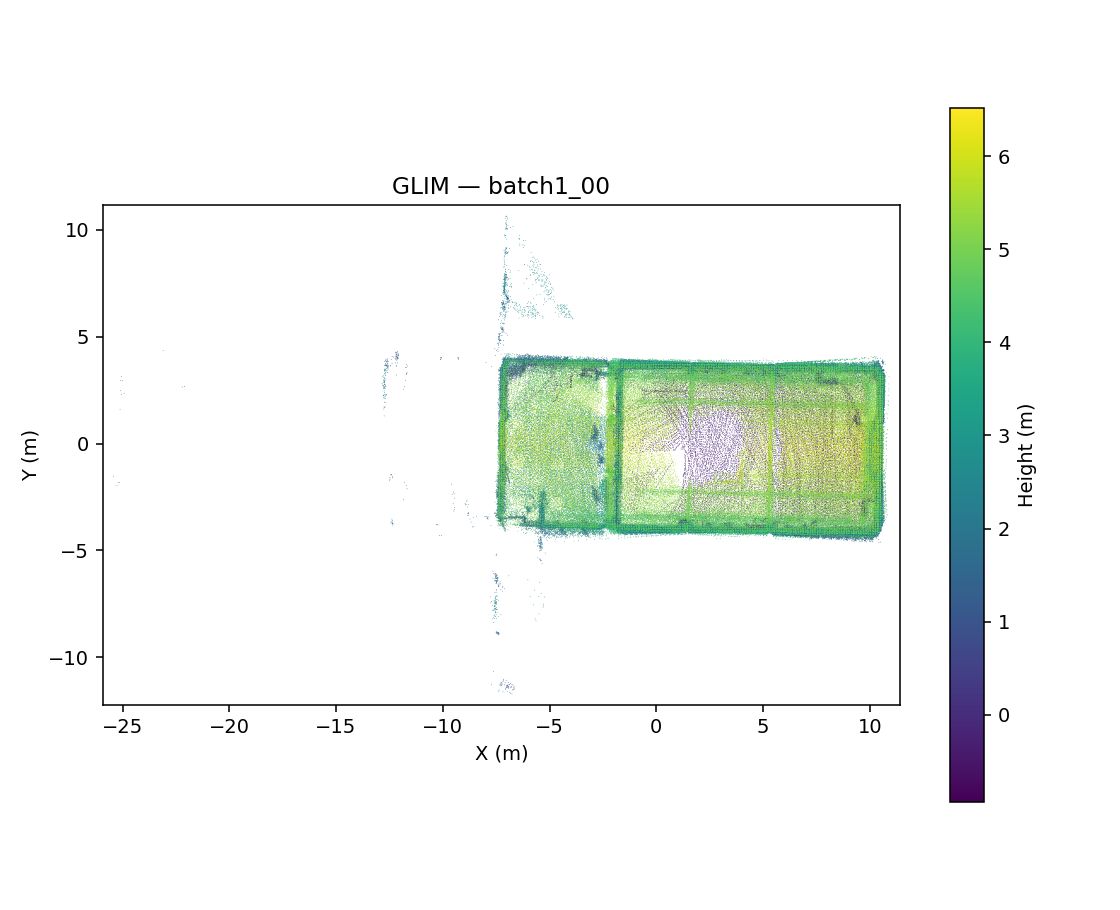
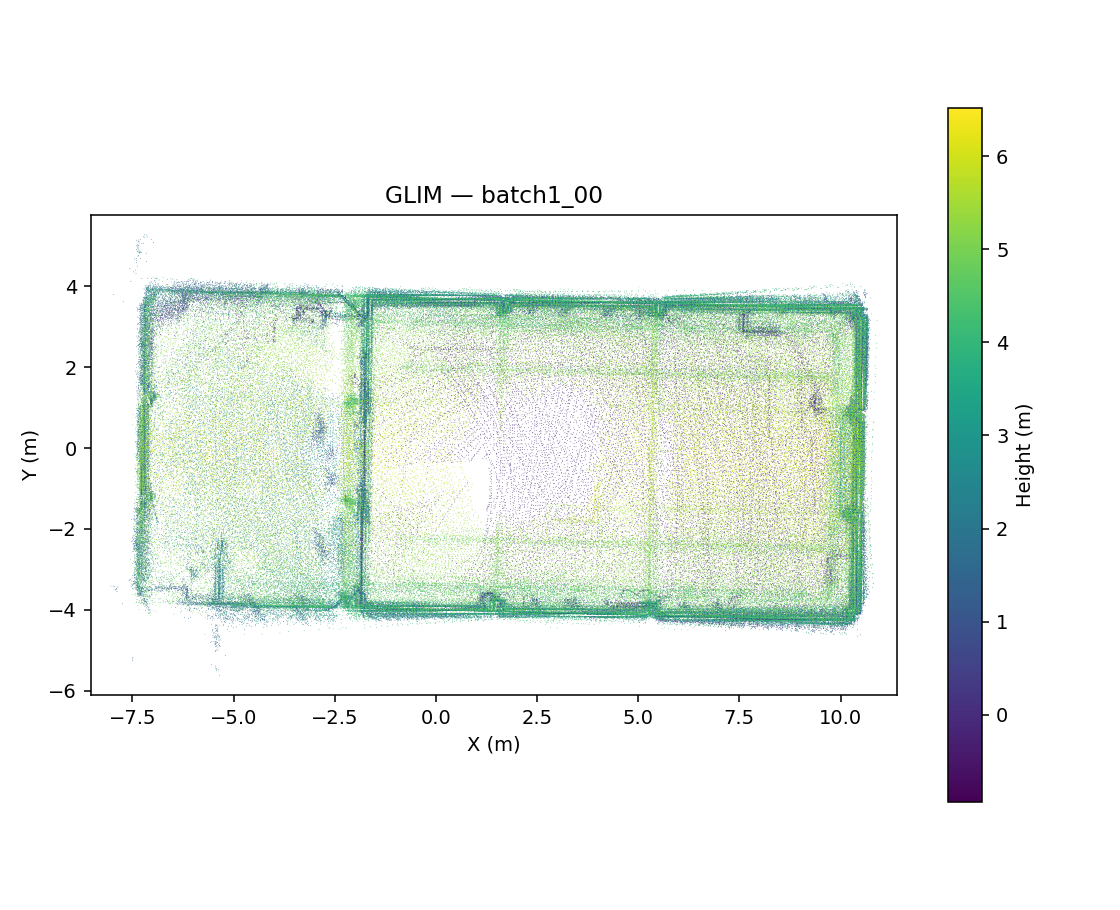
Add per-method APE error maps; fix point-cloud map centering
scripts/render_ape_map.py: renders an evo-style trajectory-colored-by-error
plot using evo's core alignment/APE API directly, bypassing evo's own
plotting module (which crashes via an unconditional mpl_toolkits.mplot3d
import on this system). Matches evo_ape's RMSE exactly.

scripts/render_trajectory_map.py: replaced the ineffective median/MAD
outlier crop with a density-based one (bin into 1m cells, keep the
bounding box of cells above 5% of peak density). The MAD version let a
secondary sparse cluster (likely a window/door reflection) pull the crop
wide, leaving the room compressed into the right half of the plot with
lots of dead space on the left -- the new version correctly bounds to the
room itself.

LIVE_DATASET.md: added the APE error map above each dataset's point-cloud
map row, and updated the point-cloud maps to the properly-centered crop.

diff --git a/scripts/render_ape_map.py b/scripts/render_ape_map.py
@@ -1,0 +1,68 @@
+"""
+Render an evo-style "ape_map" plot (trajectory colored by per-pose APE
+error) using evo's core alignment/metrics API directly, bypassing evo's
+own plotting module -- which unconditionally imports mpl_toolkits.mplot3d
+and crashes on this system (matplotlib/mpl_toolkits version conflict).
+"""
+import argparse
+
+from evo.core import sync, metrics
+from evo.tools import file_interface
+
+
+def main():
+    ap = argparse.ArgumentParser()
+    ap.add_argument("gt_tum")
+    ap.add_argument("est_tum")
+    ap.add_argument("out_png")
+    ap.add_argument("--title", default="")
+    ap.add_argument("--max-diff", type=float, default=0.05)
+    args = ap.parse_args()
+
+    traj_ref = file_interface.read_tum_trajectory_file(args.gt_tum)
+    traj_est = file_interface.read_tum_trajectory_file(args.est_tum)
+
+    traj_ref, traj_est = sync.associate_trajectories(traj_ref, traj_est, max_diff=args.max_diff)
+
+    ape_metric = metrics.APE(metrics.PoseRelation.translation_part)
+    data = (traj_ref, traj_est)
+    ape_metric.process_data(data)
+
+    # process_data internally aligns traj_est to traj_ref (SE3, no scale)
+    # and stores the aligned trajectory back onto traj_est's positions via
+    # metrics.APE -- but to get the aligned positions for plotting we align
+    # explicitly the same way evo's main.py does before calling APE.
+    import copy
+    from evo.core import trajectory
+    traj_est_aligned = copy.deepcopy(traj_est)
+    traj_est_aligned.align(traj_ref, correct_scale=False)
+
+    ape_metric2 = metrics.APE(metrics.PoseRelation.translation_part)
+    ape_metric2.process_data((traj_ref, traj_est_aligned))
+    errors = ape_metric2.error
+    rmse = ape_metric2.get_statistic(metrics.StatisticsType.rmse)
+
+    import matplotlib
+    matplotlib.use('Agg')
+    import matplotlib.pyplot as plt
+
+    ref_xy = traj_ref.positions_xyz[:, :2]
+    est_xy = traj_est_aligned.positions_xyz[:, :2]
+
+    fig, ax = plt.subplots(figsize=(6, 5.5))
+    ax.plot(ref_xy[:, 0], ref_xy[:, 1], '--', color='gray', linewidth=1, label='ground truth', zorder=1)
+    sc = ax.scatter(est_xy[:, 0], est_xy[:, 1], c=errors, cmap='jet', s=6, zorder=2)
+    ax.set_xlabel('X (m)')
+    ax.set_ylabel('Y (m)')
+    ax.set_aspect('equal')
+    ax.legend(loc='best', fontsize=8)
+    title = args.title or f"APE RMSE: {rmse:.3f}m"
+    ax.set_title(title)
+    plt.colorbar(sc, label='APE (m)', shrink=0.85)
+    plt.tight_layout()
+    plt.savefig(args.out_png, dpi=140, facecolor='white')
+    print(f"rmse={rmse:.4f} Saved {args.out_png}")
+
+
+if __name__ == "__main__":
+    main()

diff --git a/scripts/render_trajectory_map.py b/scripts/render_trajectory_map.py
@@ -67,18 +67,24 @@ def read_pointcloud2_xyz(msg, stride=4):
     return pts
 
 
-def robust_crop(pts, k=10.0, pad=1.0):
+def robust_crop(pts, cell=1.0, density_frac=0.05, pad=1.0):
     """Drop sparse far-range outlier points (e.g. reflections through
-    windows/doors) using a median/MAD bound per axis, keeping the dense
-    room-scale cluster centered instead of stretching the plot to include
-    a thin trail of stray points."""
-    keep = np.ones(len(pts), dtype=bool)
-    for axis in (0, 1):
-        vals = pts[:, axis]
-        med = np.median(vals)
-        mad = np.median(np.abs(vals - med)) + 1e-6
-        lo, hi = med - k * mad, med + k * mad
-        keep &= (vals >= lo - pad) & (vals <= hi + pad)
+    windows/doors) using a density-based bounding box: bin points into
+    `cell`-sized 2D cells, keep only cells with at least density_frac of
+    the busiest cell's count, then crop to that region's bounding box.
+    Robust to outlier trails regardless of what fraction of total points
+    they represent (unlike a plain per-axis percentile/MAD cut)."""
+    xy = pts[:, :2]
+    mins = xy.min(axis=0)
+    keys = np.floor((xy - mins) / cell).astype(np.int64)
+    uniq, inv, counts = np.unique(keys, axis=0, return_inverse=True, return_counts=True)
+    threshold = counts.max() * density_frac
+    dense_cells = uniq[counts >= threshold]
+    if len(dense_cells) == 0:
+        return pts
+    lo = dense_cells.min(axis=0) * cell + mins - pad
+    hi = (dense_cells.max(axis=0) + 1) * cell + mins + pad
+    keep = (xy[:, 0] >= lo[0]) & (xy[:, 0] <= hi[0]) & (xy[:, 1] >= lo[1]) & (xy[:, 1] <= hi[1])
     return pts[keep]
 
 

diff --git a/LIVE_DATASET.md b/LIVE_DATASET.md
@@ -45,28 +45,33 @@ the truss.
 
 ## Map reconstruction
 
-Top-down point-cloud maps for all four methods on three representative
-sequences. Each map is built by reprojecting every raw `/livox/lidar` scan
-into world frame using that method's own estimated trajectory (TUM poses),
-then voxel-downsampling — the same technique regardless of method, so maps
-are directly comparable. Click any thumbnail to open the full-resolution image.
+For each sequence: the APE error map (trajectory colored by per-pose error
+against ground truth, same style as the TIERS benchmark above) followed by
+the reconstructed point-cloud map — built by reprojecting every raw
+`/livox/lidar` scan into world frame using that method's own estimated
+trajectory, then voxel-downsampling. Same technique regardless of method,
+so results are directly comparable. Click any thumbnail to open the
+full-resolution image.
 
 **batch1_00**
 
 | KISS-ICP | FAST-LIO2 | DLIO | GLIM |
 |:---:|:---:|:---:|:---:|
+| [<img src="docs/images/ape_maps/batch1_00_kiss_icp.png" width="180">](docs/images/ape_maps/batch1_00_kiss_icp.png) | [<img src="docs/images/ape_maps/batch1_00_fastlio2.png" width="180">](docs/images/ape_maps/batch1_00_fastlio2.png) | [<img src="docs/images/ape_maps/batch1_00_dlio.png" width="180">](docs/images/ape_maps/batch1_00_dlio.png) | [<img src="docs/images/ape_maps/batch1_00_glim.png" width="180">](docs/images/ape_maps/batch1_00_glim.png) |
 | [<img src="docs/images/maps/batch1_00_kiss_icp.png" width="180">](docs/images/maps/batch1_00_kiss_icp.png) | [<img src="docs/images/maps/batch1_00_fastlio2.png" width="180">](docs/images/maps/batch1_00_fastlio2.png) | [<img src="docs/images/maps/batch1_00_dlio.png" width="180">](docs/images/maps/batch1_00_dlio.png) | [<img src="docs/images/maps/batch1_00_glim.png" width="180">](docs/images/maps/batch1_00_glim.png) |
 
 **batch2_02**
 
 | KISS-ICP | FAST-LIO2 | DLIO | GLIM |
 |:---:|:---:|:---:|:---:|
+| [<img src="docs/images/ape_maps/batch2_02_kiss_icp.png" width="180">](docs/images/ape_maps/batch2_02_kiss_icp.png) | [<img src="docs/images/ape_maps/batch2_02_fastlio2.png" width="180">](docs/images/ape_maps/batch2_02_fastlio2.png) | [<img src="docs/images/ape_maps/batch2_02_dlio.png" width="180">](docs/images/ape_maps/batch2_02_dlio.png) | [<img src="docs/images/ape_maps/batch2_02_glim.png" width="180">](docs/images/ape_maps/batch2_02_glim.png) |
 | [<img src="docs/images/maps/batch2_02_kiss_icp.png" width="180">](docs/images/maps/batch2_02_kiss_icp.png) | [<img src="docs/images/maps/batch2_02_fastlio2.png" width="180">](docs/images/maps/batch2_02_fastlio2.png) | [<img src="docs/images/maps/batch2_02_dlio.png" width="180">](docs/images/maps/batch2_02_dlio.png) | [<img src="docs/images/maps/batch2_02_glim.png" width="180">](docs/images/maps/batch2_02_glim.png) |
 
 **batch2_05**
 
 | KISS-ICP | FAST-LIO2 | DLIO | GLIM |
 |:---:|:---:|:---:|:---:|
+| [<img src="docs/images/ape_maps/batch2_05_kiss_icp.png" width="180">](docs/images/ape_maps/batch2_05_kiss_icp.png) | [<img src="docs/images/ape_maps/batch2_05_fastlio2.png" width="180">](docs/images/ape_maps/batch2_05_fastlio2.png) | [<img src="docs/images/ape_maps/batch2_05_dlio.png" width="180">](docs/images/ape_maps/batch2_05_dlio.png) | [<img src="docs/images/ape_maps/batch2_05_glim.png" width="180">](docs/images/ape_maps/batch2_05_glim.png) |
 | [<img src="docs/images/maps/batch2_05_kiss_icp.png" width="180">](docs/images/maps/batch2_05_kiss_icp.png) | [<img src="docs/images/maps/batch2_05_fastlio2.png" width="180">](docs/images/maps/batch2_05_fastlio2.png) | [<img src="docs/images/maps/batch2_05_dlio.png" width="180">](docs/images/maps/batch2_05_dlio.png) | [<img src="docs/images/maps/batch2_05_glim.png" width="180">](docs/images/maps/batch2_05_glim.png) |
 
 Compare against the environment photos above — the rectangular hall outline
